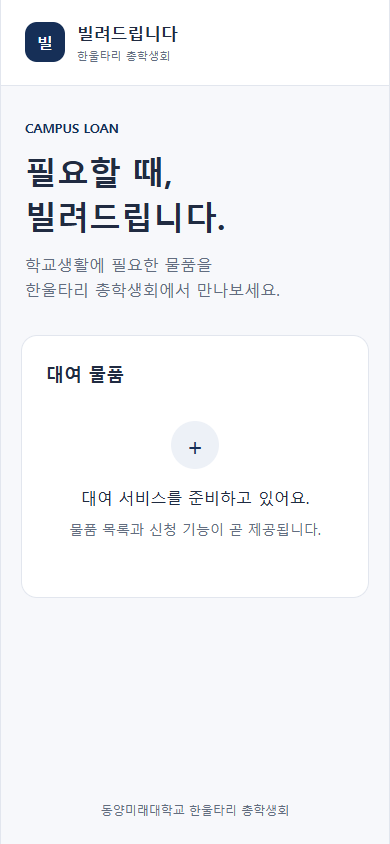
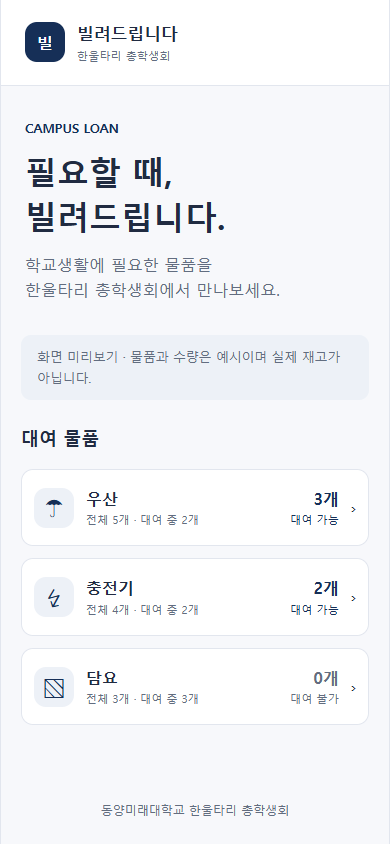
docs(fe): 물품 화면 구현 범위와 확인 이미지 갱신

diff --git a/frontend/README.md b/frontend/README.md
@@ -25,7 +25,9 @@ npm run dev
 - 학생용 모바일 레이아웃과 관리자 사이드바·본문 레이아웃
 - `/`, `/admin` 분기 및 알 수 없는 경로 안내
 
-물품 목록·대여 신청·로그인·관리 기능과 API 연결은 아직 구현하지 않았습니다.
+물품 목록과 상세 팝업은 예시 데이터로 표시합니다. 품절 물품의 상세 확인,
+Escape/닫기 버튼, 팝업 종료 후 선택 버튼으로 포커스 복귀를 지원합니다.
+대여 신청·로그인·관리 기능과 API 연결은 아직 구현하지 않았습니다.
 관리자 경로는 공개된 화면 시안이며 인증이나 접근 제어 기능이 없습니다.
 실제 운영 데이터는 표시하지 않습니다. 현재 글꼴은 운영체제 기본 글꼴입니다.
 
@@ -46,10 +48,13 @@ src/
 
 ## 다음 작업 순서
 
-1. 학생 홈의 물품 목록·상세 (합의된 예시 데이터 사용)
-2. 대여 신청 폼 및 입력 검증
-3. 관리자 화면별 기능
-4. API 연결과 로딩·오류 처리
+1. 대여 신청 폼 및 입력 검증
+2. 관리자 화면별 기능
+3. API 명세 합의 후 데이터 연결과 로딩·오류 처리
+
+`src/data/items.js`는 FE 화면 개발용 데이터이며 확정된 API 응답 규격이 아닙니다.
+품목, 재고, 반납 안내를 실제 운영 정보로 사용하면 안 됩니다.
+실제 신청은 아직 불가능하므로 상세 팝업의 신청 버튼은 비활성화되어 있습니다.
 
 작업 브랜치는 최신 `develop`에서 `feat/fe-작업명`으로 만들고,
 검증한 변경 단위마다 `feat(fe): ...`, `chore(fe): ...` 등으로 커밋합니다.
